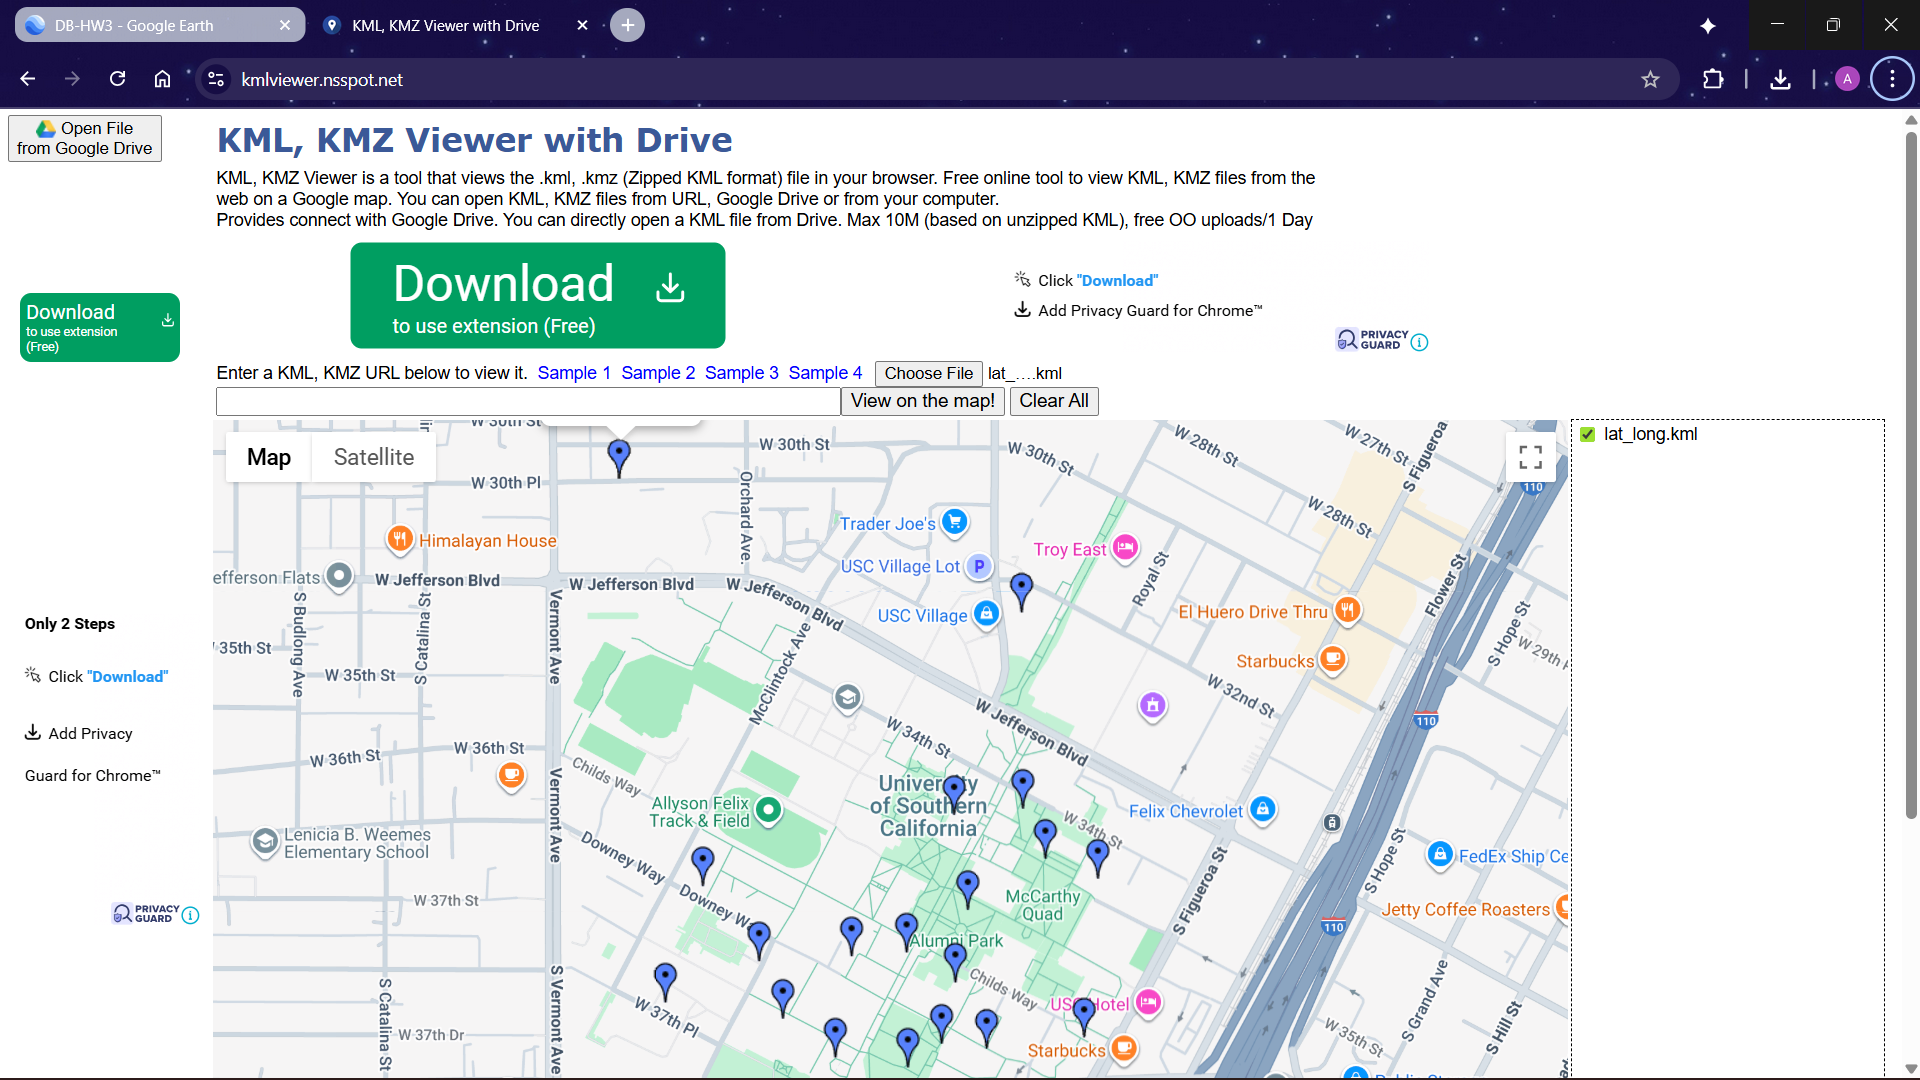
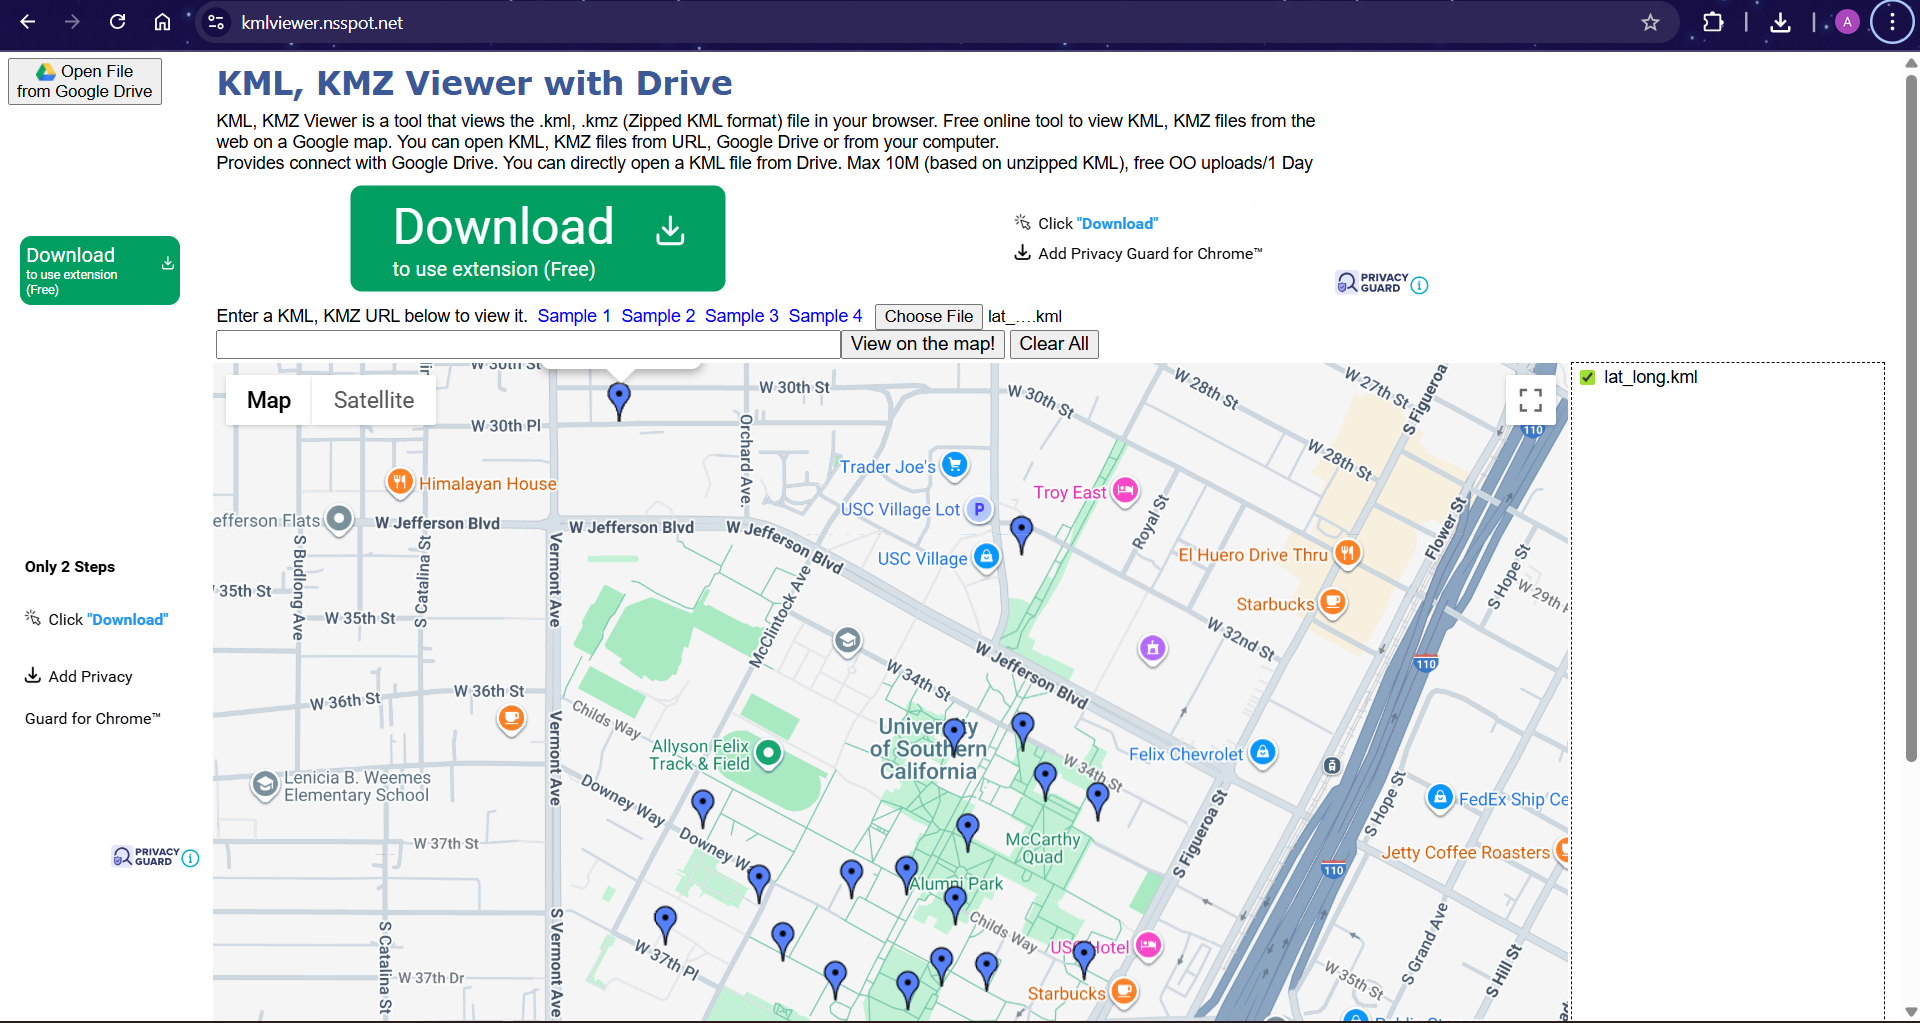
Added SVG

Changed region(s): [[0.0, 0.0, 1.0, 1.0], [0.6875, 0.2424, 0.75, 0.3333]]

diff --git a/web/openlayers-demo/OL.html b/web/openlayers-demo/OL.html
@@ -1,7 +1,7 @@
 <!DOCTYPE html>
 <html>
 <head>
-  <title>HW3 - OpenLayers (Aesthetic)</title>
+  <title>Geospatial-Analytics-Pipeline - OpenLayers</title>
   
   <link rel="stylesheet" href="https://openlayers.org/en/v4.6.5/css/ol.css" type="text/css">
   <script src="https://openlayers.org/en/v4.6.5/build/ol.js" type="text/javascript"></script>
